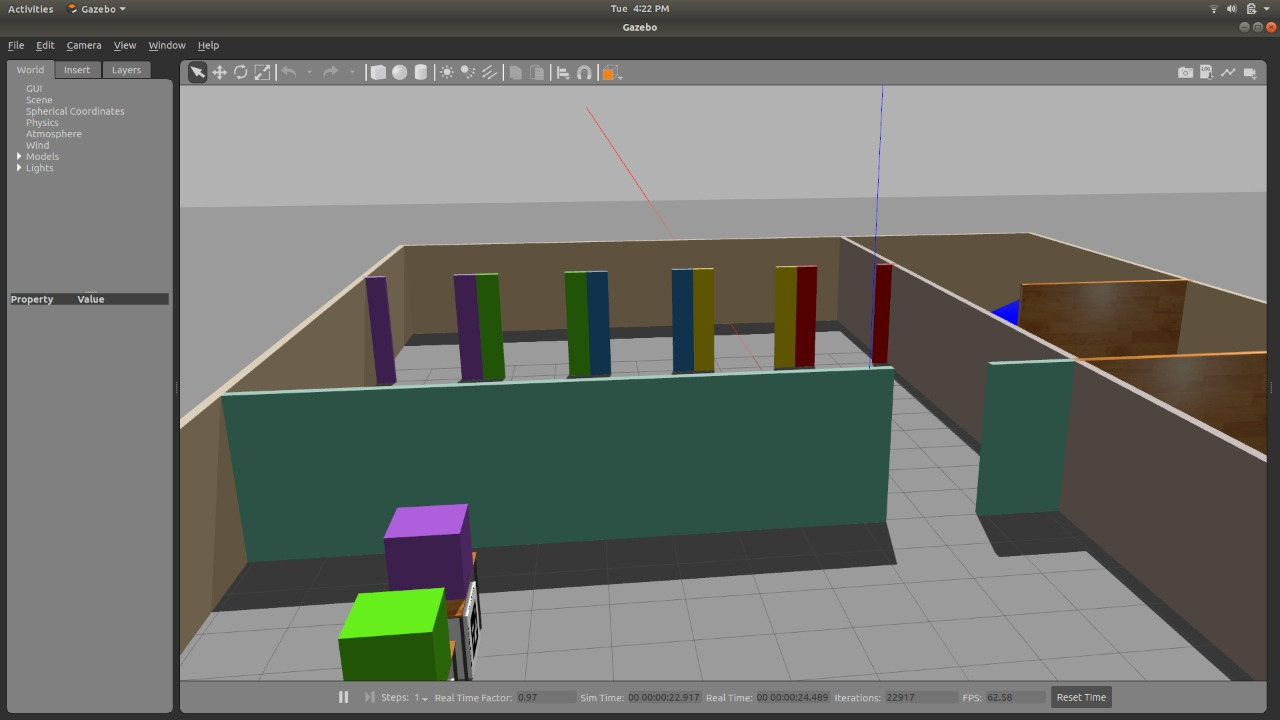
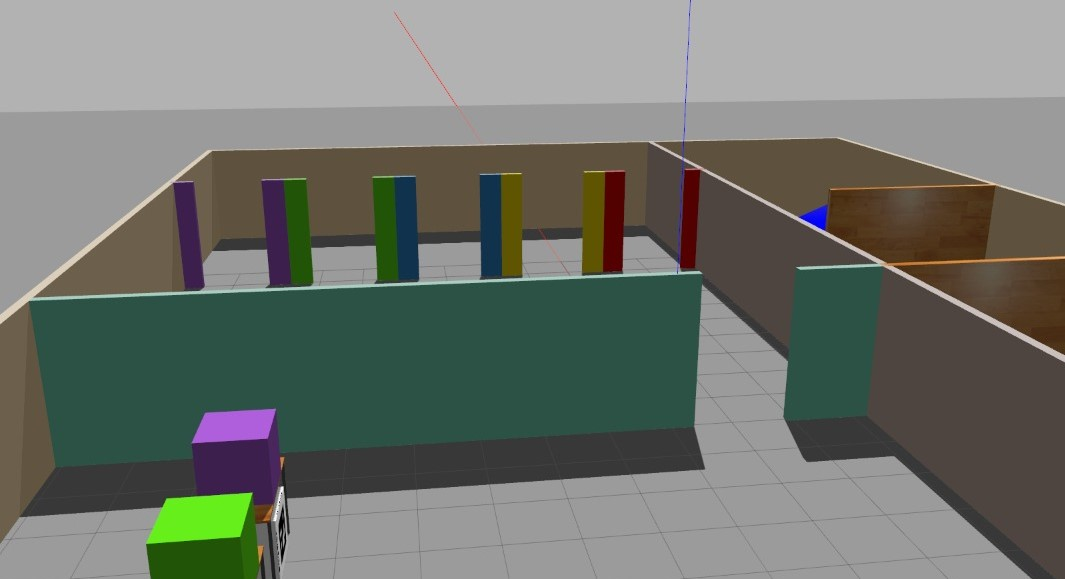
workflow part 2 done

diff --git a/docs/workflow2.md b/docs/workflow2.md
@@ -22,7 +22,8 @@
 > - After detection of that `aruco` marker, we need to detect the  color of the box which is kept on the top of that particular  `aruco` marker. Let the color be `C`.
 >
 > - Now after the detection of the color the the robot needs to  navigate to the rooms which has `colored doors` to the finish line. 
->
+> > **Colored Doors**
+> <img src="../images/image3.jpeg" style="vertical-align:middle; > padding:25px 25px 25px 25px" width="700">
 > - Next task of the bot is to detect the same color as that of box  that of the door. Whichever door which has the same color, the bot > needs to pass through that particular door and cross the finish > line in order to accomplish the task. 
 > 
 > - After doing so the task will get over.
